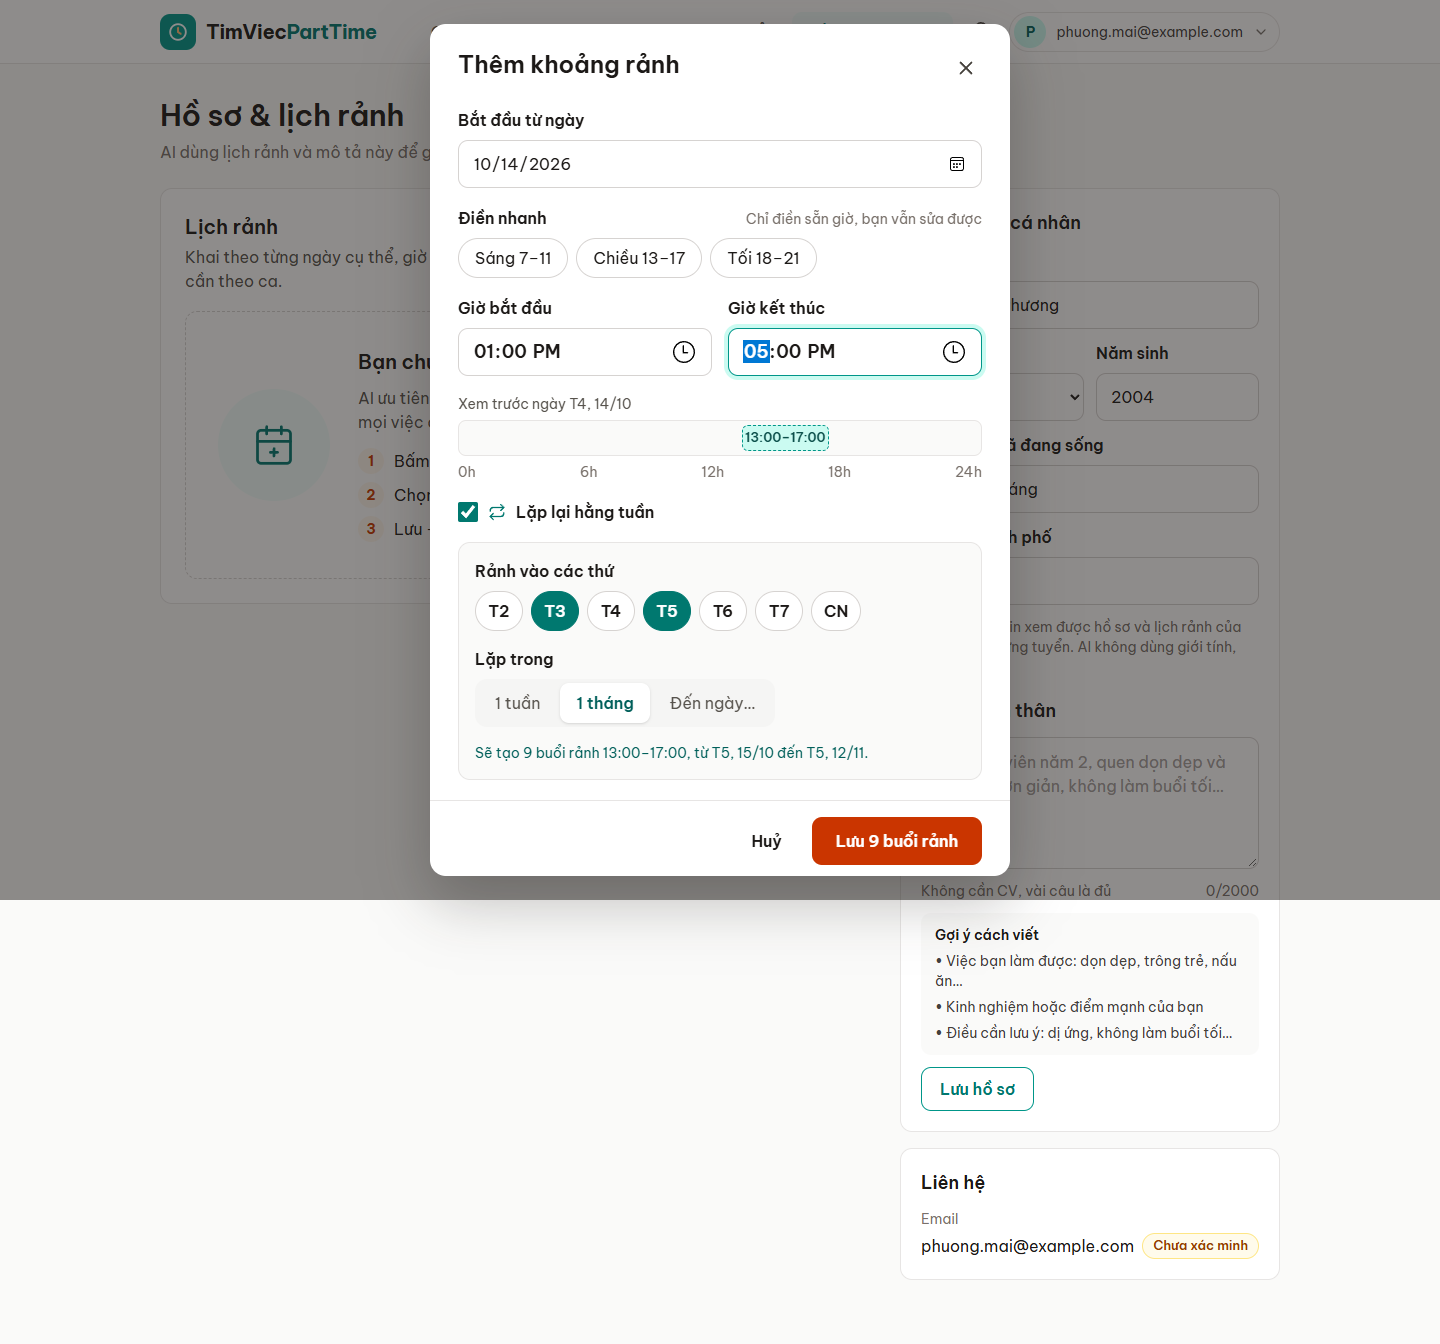
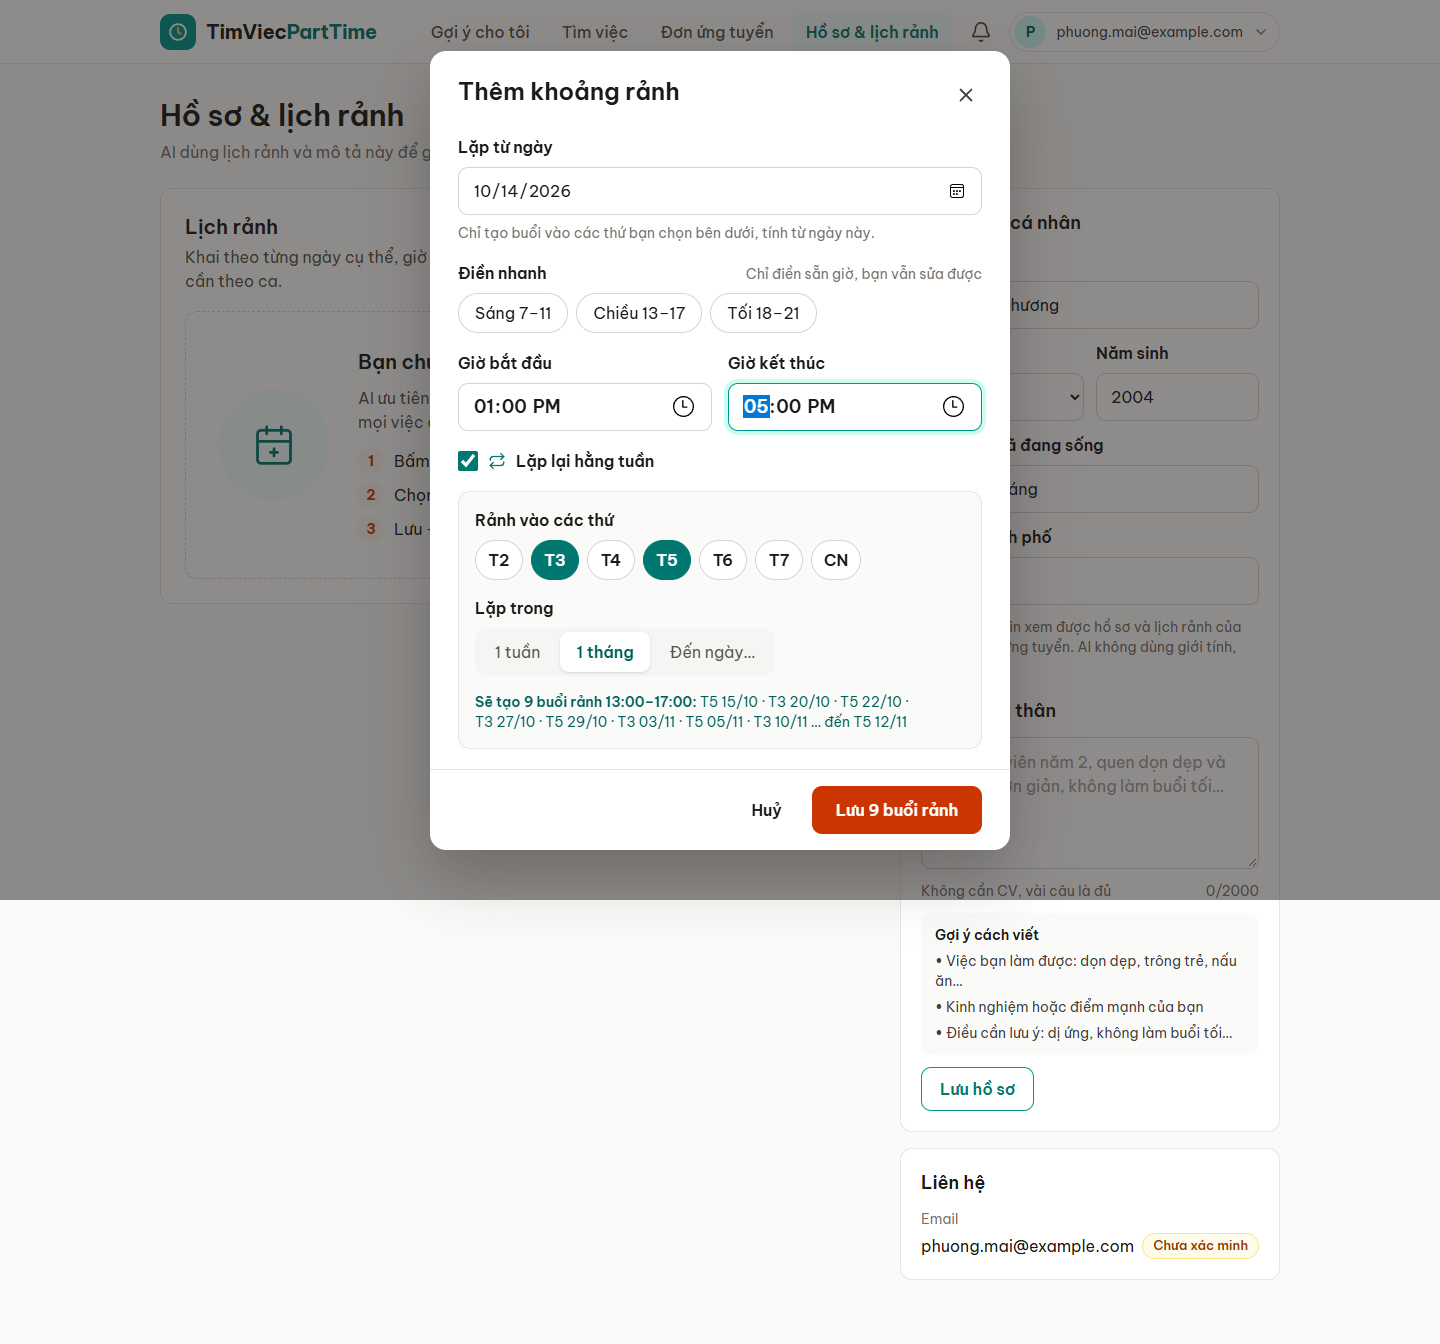
fix(frontend): form lịch rảnh lặp lại — nút Lưu/Huỷ luôn thấy được, liệt kê ngày sẽ tạo, chip theo ngày bắt đầu
- Thân modal cuộn được, chân cố định (form lặp cao hơn màn 900px làm mất nút)
- Bật lặp: ẩn thanh 'Xem trước ngày' (chỉ đúng cho khai 1 ngày), nhãn 'Lặp từ ngày' + dòng giải thích
- Xem trước liệt kê các ngày sẽ tạo thay cho 'từ … đến …'
- Chưa bấm chip thì thứ mặc định đổi theo ngày bắt đầu
- test-cases: sửa SER-01, thêm SER-08 (tổng 277)

Changed region(s): [[0.2812, 0.0, 0.7188, 0.6562], [0.5625, 0.4062, 0.5938, 0.4688]]

diff --git a/frontend/src/pages/SeekerPages.tsx b/frontend/src/pages/SeekerPages.tsx
@@ -416,13 +416,23 @@ function AddSlotForm({ day, onClose, onSaved }: { day: string; onClose: () => vo
   const [end, setEnd] = useState('11:00')
   const [repeat, setRepeat] = useState(false)
   const [weekdays, setWeekdays] = useState(() => [weekdayOf(day)])
+  // Chưa tự chọn thứ nào thì thứ mặc định đi theo ngày bắt đầu
+  const [touched, setTouched] = useState(false)
   const [span, setSpan] = useState('month')
   const [customUntil, setCustomUntil] = useState(() => addDays(day, 13))
   const { error, busy, wrap } = useSubmit()
   const bad = end <= start
   const until = span === 'week' ? addDays(date, 6) : span === 'month' ? addDays(date, 29) : customUntil
   const days = repeat && !bad ? seriesDays(date, until, weekdays, end) : []
-  const toggle = (w: number) => setWeekdays((ws) => (ws.includes(w) ? ws.filter((x) => x !== w) : [...ws, w].sort()))
+  const shortDay = (d: string) => fmtDay(`${d}T00:00`).replace(', ', ' ')  // "T3 27/10" không bị ngắt dòng giữa
+  function toggle(w: number) {
+    setTouched(true)
+    setWeekdays((ws) => (ws.includes(w) ? ws.filter((x) => x !== w) : [...ws, w].sort()))
+  }
+  function pickDate(d: string) {
+    setDate(d)
+    if (!touched && d) setWeekdays([weekdayOf(d)])
+  }
 
   const save = wrap(async () => {
     if (repeat) {
@@ -437,12 +447,14 @@ function AddSlotForm({ day, onClose, onSaved }: { day: string; onClose: () => vo
   })
 
   return (
-    <form onSubmit={save}>
+    // Thân form cuộn được, chân (Huỷ/Lưu) luôn ở đáy: bật lặp lại thì form cao hơn màn hình
+    <form onSubmit={save} className="flex max-h-[calc(100vh-48px)] flex-col">
       <ModalHeader title="Thêm khoảng rảnh" onClose={onClose} />
-      <div className="flex flex-col gap-[18px] px-7 py-5">
+      <div className="flex min-h-0 flex-col gap-[18px] overflow-auto px-7 py-5">
         <label className="field">
-          <span className="label">{repeat ? 'Bắt đầu từ ngày' : 'Ngày'}</span>
-          <input type="date" required className="input" value={date} min={dateInput(new Date())} onChange={(e) => setDate(e.target.value)} />
+          <span className="label">{repeat ? 'Lặp từ ngày' : 'Ngày'}</span>
+          <input type="date" required className="input" value={date} min={dateInput(new Date())} onChange={(e) => pickDate(e.target.value)} />
+          {repeat && <span className="text-sm text-stone-500">Chỉ tạo buổi vào các thứ bạn chọn bên dưới, tính từ ngày này.</span>}
         </label>
         <div className="field">
           <div className="flex items-baseline justify-between"><span className="label">Điền nhanh</span><span className="text-sm text-stone-500">Chỉ điền sẵn giờ, bạn vẫn sửa được</span></div>
@@ -459,7 +471,7 @@ function AddSlotForm({ day, onClose, onSaved }: { day: string; onClose: () => vo
           <label className="field"><span className="label">Giờ kết thúc</span>
             <input type="time" required className="input text-lg font-semibold tabular-nums" value={end} aria-invalid={bad} onChange={(e) => setEnd(e.target.value)} /></label>
         </div>
-        {bad ? <FieldError>Giờ kết thúc phải sau giờ bắt đầu. Khoảng rảnh qua nửa đêm thì tách thành 2 khoảng.</FieldError> : (
+        {bad ? <FieldError>Giờ kết thúc phải sau giờ bắt đầu. Khoảng rảnh qua nửa đêm thì tách thành 2 khoảng.</FieldError> : !repeat && (
           <div className="flex flex-col gap-1.5">
             <span className="text-sm text-stone-600">Xem trước ngày {fmtDay(`${date}T00:00`)}</span>
             <div className="relative h-9 rounded-lg border border-stone-200 bg-stone-50">
@@ -498,15 +510,19 @@ function AddSlotForm({ day, onClose, onSaved }: { day: string; onClose: () => vo
               </div>
             </div>
             <div className={`text-sm ${days.length ? 'text-teal-800' : 'text-amber-800'}`}>
-              {days.length
-                ? `Sẽ tạo ${days.length} buổi rảnh ${start}–${end}, từ ${fmtDay(`${days[0]}T00:00`)} đến ${fmtDay(`${days[days.length - 1]}T00:00`)}.`
-                : bad ? '' : 'Không có buổi nào khớp các thứ đã chọn trong khoảng ngày này.'}
+              {days.length ? (
+                <>
+                  <b className="font-semibold">Sẽ tạo {days.length} buổi rảnh {start}–{end}:</b>{' '}
+                  {days.slice(0, 8).map(shortDay).join(' · ')}
+                  {days.length > 8 && ` … đến ${shortDay(days[days.length - 1])}`}
+                </>
+              ) : bad ? '' : 'Không có buổi nào khớp các thứ đã chọn trong khoảng ngày này.'}
             </div>
           </div>
         )}
         {error && <FieldError>{error}</FieldError>}
       </div>
-      <div className="flex justify-end gap-3 border-t border-stone-200 px-7 py-4">
+      <div className="flex shrink-0 justify-end gap-3 border-t border-stone-200 px-7 py-4">
         <button type="button" className="btn btn-plain h-12" onClick={onClose}>Huỷ</button>
         <button className="btn btn-primary h-12 px-6" disabled={busy || bad || (repeat && !days.length)}>
           {busy && <Spinner />}{repeat ? `Lưu ${days.length} buổi rảnh` : 'Lưu khoảng rảnh'}

diff --git a/docs/test-cases.md b/docs/test-cases.md
@@ -352,9 +352,10 @@ Seed lại trước khi chạy. Chạy theo thứ tự bảng (CNT trước FILL
 | SPR-01 | P1 | Employer xem hồ sơ người ứng tuyển | huong → J1 → "Xem đơn" → bấm "Nguyễn Thị Lan" | Trang hồ sơ: "Nữ · N tuổi (sinh năm 2005) · Phường Bạch Mai, Hà Nội", đánh giá, mô tả, email, SĐT, lịch rảnh sắp tới theo ngày (`screenshots/week9/spr-01-ho-so-ung-vien.png`) | Đạt |
 | SPR-02 | P1 | Không xem được người không ứng tuyển tin mình | tuan mở `/employer/seekers/<id lan>` | "Không tìm thấy hồ sơ" (API 404, không lộ tài khoản có tồn tại) | Đạt |
 | SPR-03 | P2 | Chưa khai họ tên | nhahang → J11 → bấm tên tuananh | Hiện email thay tên; "Chưa có số điện thoại" | Đạt |
-| SER-01 | P1 | Khai lịch rảnh lặp lại | phuong → "Thêm khoảng rảnh" → tick "Lặp lại hằng tuần" → chọn T3, T5, 13:00–17:00, "1 tháng" → "Lưu N buổi rảnh" | Dòng xem trước "Sẽ tạo N buổi rảnh … từ … đến …" (8–9 buổi); toast "Đã lưu N buổi rảnh"; DB có N dòng cùng 1 `series_id`, đều rơi vào T3/T5 lúc 13:00 giờ VN | Đạt |
+| SER-01 | P1 | Khai lịch rảnh lặp lại | phuong → "Thêm khoảng rảnh" → tick "Lặp lại hằng tuần" → chọn T3, T5, 13:00–17:00, "1 tháng" → "Lưu N buổi rảnh" | Nhãn ngày đổi thành "Lặp từ ngày"; dòng xem trước "Sẽ tạo N buổi rảnh 13:00–17:00: T3 dd/mm · T5 dd/mm · …" liệt kê đúng các ngày (8–9 buổi, quá 8 thì "… đến <ngày cuối>"); nút Lưu/Huỷ luôn thấy được ở màn 1440×900 (thân modal cuộn); toast "Đã lưu N buổi rảnh"; DB có N dòng cùng 1 `series_id`, đều rơi vào T3/T5 lúc 13:00 giờ VN | Đạt |
 | SER-02 | P2 | Bỏ hết các thứ | Tick "Lặp lại" rồi bỏ chọn mọi thứ | "Không có buổi nào khớp…"; nút "Lưu 0 buổi rảnh" bị khoá | Đạt |
 | SER-03 | P2 | Giới hạn "Đến ngày…" | Chọn "Đến ngày…"; đổi ngày bắt đầu thành ngày mai rồi chọn "1 tuần" | Ô ngày kết thúc tối đa 92 ngày sau ngày bắt đầu; "1 tuần" tạo đúng 1 buổi | Đạt |
+| SER-08 | P2 | Thứ mặc định theo ngày bắt đầu | Mở "Thêm khoảng rảnh" → tick "Lặp lại" → đổi "Lặp từ ngày"; bấm thêm CN rồi đổi ngày lần nữa | Thanh "Xem trước ngày …" (chỉ dành cho khai 1 ngày) ẩn đi; chưa bấm chip thì chip đổi theo thứ của ngày mới; đã bấm chip thì đổi ngày không ghi đè lựa chọn | Đạt |
 | SER-04 | P1 | Xoá 1 buổi trong chuỗi | Bấm X trên 1 khối có biểu tượng lặp → "Chỉ buổi này" | Hỏi "Xoá khoảng rảnh lặp lại?" kèm số buổi của chuỗi; chỉ mất đúng 1 buổi | Đạt |
 | SER-05 | P1 | Xoá cả chuỗi | Bấm X → "Xoá cả chuỗi" | Toast "Đã xoá cả chuỗi lịch rảnh"; toàn bộ chuỗi biến mất | Đạt |
 | SER-06 | P2 | Khoảng khai lẻ vẫn xoá ngay | lan → X trên khối T7 08:00–10:00 | Xoá ngay, không hỏi chuỗi | Đạt |
@@ -481,13 +482,13 @@ Bằng chứng: ảnh chụp / log Console / request trong tab Network
 | 12. Đăng / sửa tin | 19 | 19 | 0 | 0 |
 | 13. Đơn của một tin | 10 | 10 | 0 | 0 |
 | 13b. Đánh giá hai chiều | 9 | 9 | 0 | 0 |
-| 13c. Bổ sung Tuần 9 | 23 | 23 | 0 | 0 |
+| 13c. Bổ sung Tuần 9 | 24 | 24 | 0 | 0 |
 | 14. Quản trị | 10 | 10 | 0 | 0 |
 | 14b. Báo cáo & thông báo | 13 | 13 | 0 | 0 |
 | 15. Giao diện chung | 10 | 10 | 0 | 0 |
 | 16. Tự động | 5 | 5 | 0 | 0 |
 | 17. Production | 12 | 12 | 0 | 0 |
-| **Tổng** | **276** | **276** | **0** | **0** |
+| **Tổng** | **277** | **277** | **0** | **0** |
 
 Mục 1–16 chạy lại toàn bộ 2026-10-05 trên `feat/week8-forgot-password` (xem mục 26); mục 17 chạy lại 2026-10-05 sau merge PR #17/#18 (FR7/FR9): 9/9.
 
@@ -573,3 +574,5 @@ Mục 1–16 chạy lại toàn bộ 2026-10-05 trên `feat/week8-forgot-passwor
 - **Mục 16**: backend **70** test (thêm 8: sinh chuỗi đúng thứ và giờ VN, giới hạn 92 ngày, bỏ buổi đã qua, xoá chuỗi chỉ của mình, hồ sơ cập nhật từng phần + validate năm sinh, chỉ employer có đơn mới xem được hồ sơ, `applicant_count` không đếm đơn hủy/bị từ chối, filled ẩn tin + từ chối đơn chờ + giữ đơn đã nhận + mở lại), ai-service 22, build, lint 0 lỗi, `offline_eval.py` chạy được.
 - **Case cũ đổi kỳ vọng vì Tuần 9** (PROF-09, PROF-13, EMP-01, EMP-03, APPL-01, APPL-02, APPL-04, APPL-10): sửa kỳ vọng ở bảng trên; PROF-13, APPL-01, APPL-02, APPL-04 chạy lại tự động **4/4 Đạt**; các case còn lại được case 13c kiểm (ghi kèm ID).
 - **Mục 1–15 còn lại (hồi quy)**: chưa chạy lại toàn bộ — bộ script tự động của các lần trước nằm trong thư mục tạm và đã bị dọn. Kết quả "Đạt" ở các mục này là của lần chạy 2026-10-05 (mục 26).
+- **Góp ý khi xem bản local (2026-10-14)**: bật "Lặp lại hằng tuần" thì nút Lưu/Huỷ bị cắt khỏi modal ở màn 900px (modal `overflow-hidden`, form cao hơn màn hình) — sửa: thân form cuộn, chân cố định. Giao diện lặp gây hiểu lầm (thanh "Xem trước ngày T5" vẫn hiện dù T5 không được chọn; câu "từ … đến …" là ngày buổi đầu/cuối) — sửa: ẩn thanh xem trước 1 ngày, nhãn "Lặp từ ngày" + dòng giải thích, liệt kê các ngày sẽ tạo, chip mặc định theo ngày bắt đầu. Logic sinh buổi không đổi. Chạy lại 13c: **24/24** (thêm SER-08).
+
